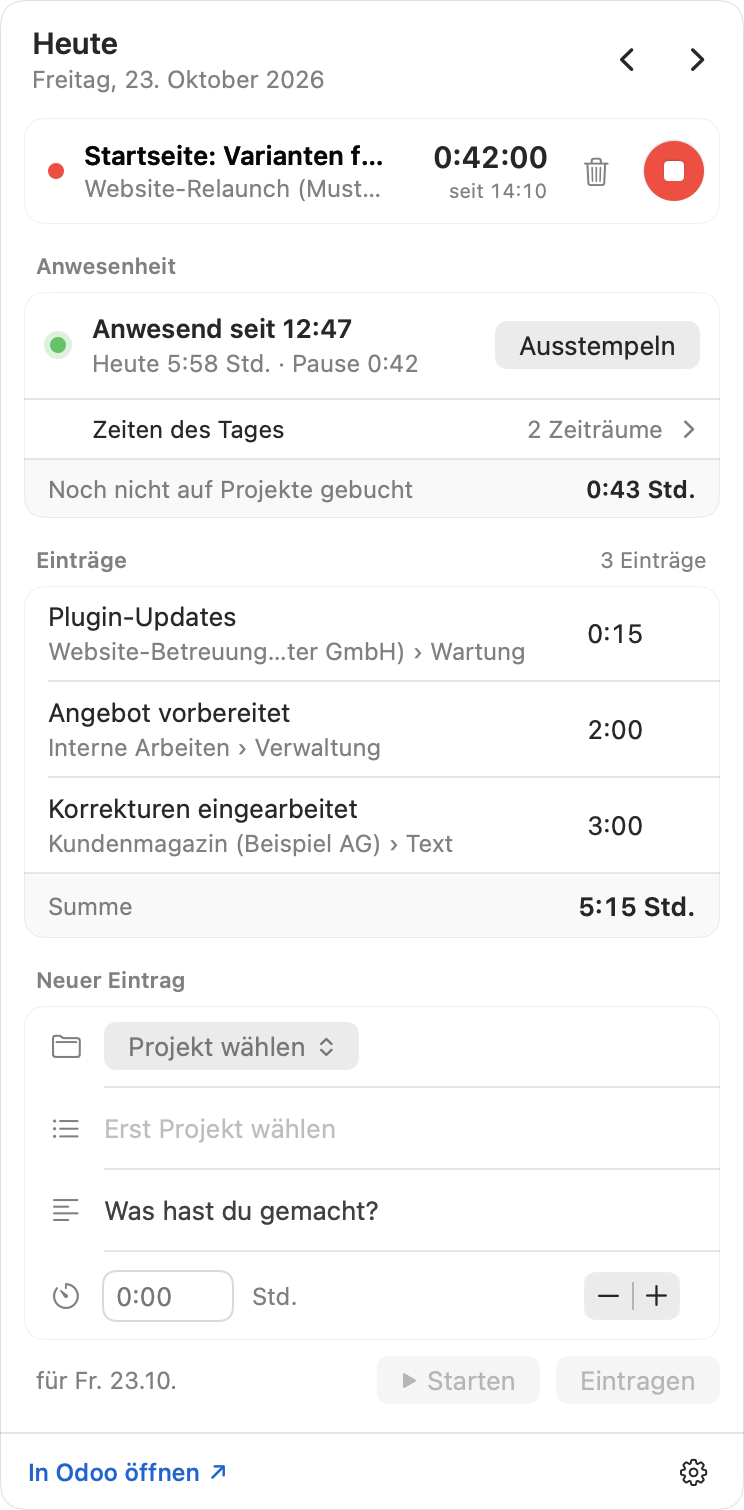
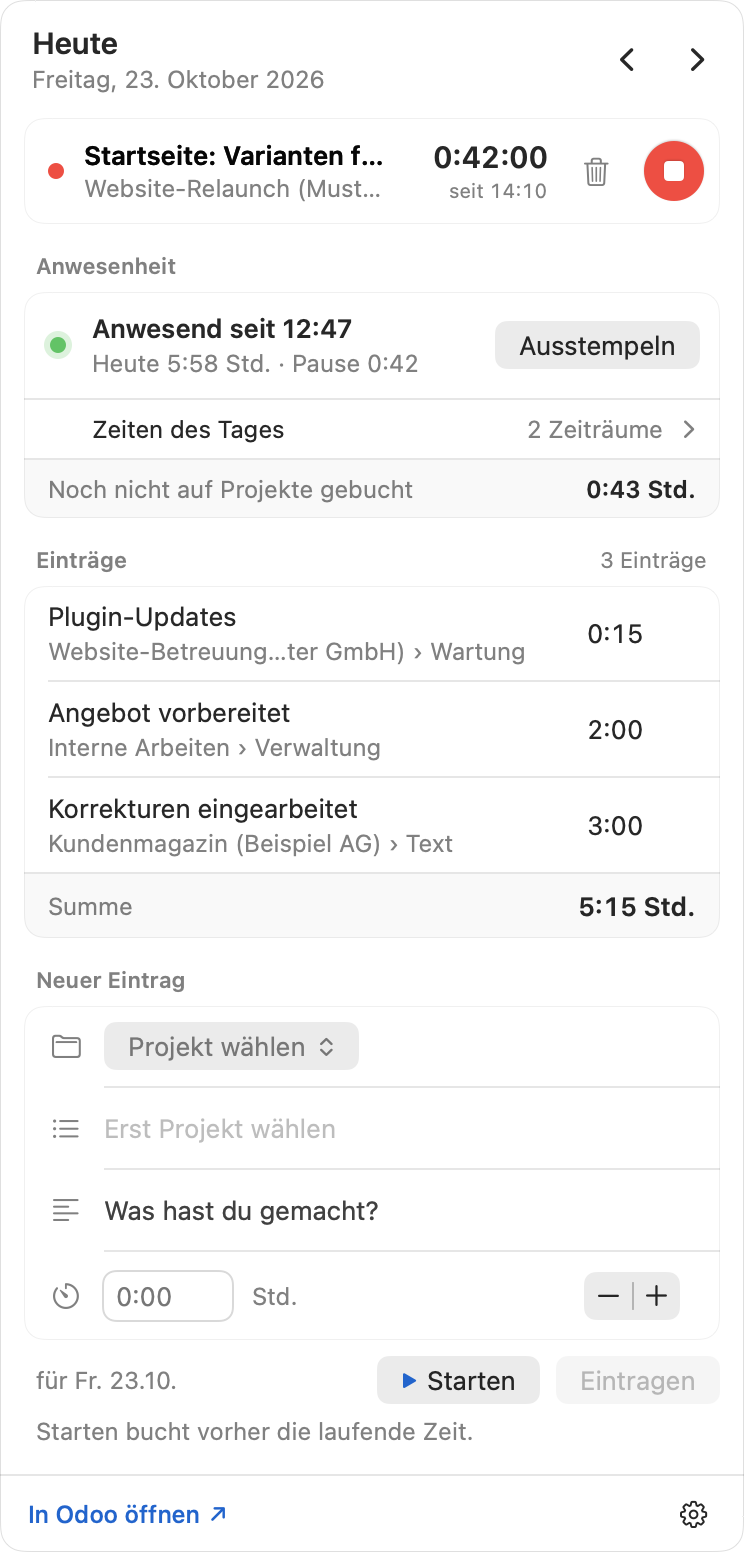
Fenster: „Starten“ nur noch im Formular
Der Knopf „Starten“ oben im Fenster entfällt: Seit „Starten ohne Projekt“ macht „Starten“ im Formular bei leerem Formular dasselbe; der obere war doppelt und stand nicht im Entwurf. Die Tests starten die Zeit ohne Projekt jetzt über das Formular. README, Changelog und App-Store-Texte angepasst; die Bildschirmfotos zeigen „Starten“ im Formular so, wie es seit 0.3.0 ist, und die Einstellungen ohne Anwesenheit mit „Zeit in der Menüleiste“.

diff --git a/ZeiterfassungTests/TimerTests.swift b/ZeiterfassungTests/TimerTests.swift
@@ -230,17 +230,16 @@ struct TimerTests {
         let clock = MovingClock()
         let model = try await signedIn(odoo, clock: clock)
         model.preferences.durationRounding = .quarterHour
-        try await fillDraft(model)
-        #expect(model.offersQuickStart)
+        // Im leeren Formular startet „Starten“ ohne Projekt.
+        #expect(model.draft.projectID == nil && model.canStartTimer)
 
-        await model.startTimerNow()
+        await model.startTimer()
         let timer = try #require(model.runningTimer)
         #expect(timer.projectID == nil && timer.taskID == nil && timer.description.isEmpty)
         #expect(model.timerPathText == "Projekt fehlt")
-        #expect(!model.offersQuickStart)
-        // Solange sie ohne Projekt läuft, startet keine neue; das Formular bleibt, wie es war.
+        // Solange sie ohne Projekt läuft, startet keine neue, auch nicht mit einem Eintrag im Formular.
+        try await fillDraft(model)
         #expect(!model.canStartTimer)
-        #expect(model.draft.description == "Titelseite")
 
         clock.advance(by: 42 * 60)
         await model.stopTimer()
@@ -269,8 +268,8 @@ struct TimerTests {
         let odoo = FakeOdoo()
         let clock = MovingClock()
         let model = try await signedIn(odoo, clock: clock)
+        await model.startTimer()
         try await fillDraft(model)
-        await model.startTimerNow()
 
         model.beginEditingTimer()
         #expect(model.timerEditing == .running)
@@ -303,8 +302,8 @@ struct TimerTests {
         }
         let clock = MovingClock()
         let model = try await signedIn(odoo, clock: clock)
+        await model.startTimer()
         try await fillDraft(model)
-        await model.startTimerNow()
         let entry = try #require(model.entries.first)
         #expect(!model.canStartTimer(like: entry))
         clock.advance(by: 20 * 60)

diff --git a/Zeiterfassung/Views/DayView.swift b/Zeiterfassung/Views/DayView.swift
@@ -74,18 +74,6 @@ struct DayHeader: View {
                     .controlSize(.small)
                     .accessibilityLabel("Wird geladen")
             }
-            if model.offersQuickStart {
-                Button { Task { await model.startTimerNow() } } label: {
-                    HStack(spacing: 4) {
-                        Image(systemName: "play.fill")
-                            .font(.system(size: 8))
-                            .foregroundStyle(.tint)
-                        Text("Starten")
-                    }
-                }
-                .controlSize(.small)
-                .help("Startet die Zeit jetzt. Projekt und Aufgabe wählst du, während sie läuft, oder beim Stoppen.")
-            }
             if !model.isShowingToday {
                 Button("Heute") { model.showToday() }
                     .controlSize(.small)

diff --git a/Zeiterfassung/Model/AppModel.swift b/Zeiterfassung/Model/AppModel.swift
@@ -1699,15 +1699,6 @@ final class AppModel {
         return String(localized: "seit \(Formatting.shortDate(startDay)) \(clockTime(timer.start))")
     }
 
-    /// „Starten“ oben im Fenster, solange keine Zeit läuft.
-    var offersQuickStart: Bool { timesheetsActive && runningTimer == nil && !isStoppingTimer }
-
-    /// Startet die Zeit sofort, ohne Projekt, Aufgabe und Beschreibung.
-    func startTimerNow() async {
-        guard offersQuickStart else { return }
-        await beginTimer(project: nil, taskID: nil, taskName: nil, description: "")
-    }
-
     /// „Starten“ steht im Formular, solange es einen neuen Eintrag für heute anlegt.
     var offersTimerStart: Bool { timesheetsActive && editingEntry == nil && timerEditing == nil && isShowingToday }
 

diff --git a/Zeiterfassung/Debug/ScreenshotRenderer.swift b/Zeiterfassung/Debug/ScreenshotRenderer.swift
@@ -186,7 +186,7 @@ enum ScreenshotRenderer {
         model.preferences.runningTimer = nil
         model.dismissTimerNotice()
 
-        // Oben gestartet, ohne Projekt: Angaben ändern, beim Stoppen zuordnen
+        // Ohne Projekt gestartet: Angaben ändern, beim Stoppen zuordnen
         await renderPanel(model, appearance: .aqua, to: directory.appending(path: "timer-starten.png"))
         model.preferences.runningTimer = Preferences.RunningTimer(account: account, projectID: nil, projectName: nil, taskID: nil,
                                                                   taskName: nil, description: "",

diff --git a/docs/app-store.md b/docs/app-store.md
@@ -26,8 +26,8 @@ the review, please use the built-in demo, which needs no server:
 2. Enter Server: demo and API key: demo, click Connect, then Done.
 3. Try booking time (project, task, description, duration), or leave the duration empty and
    click Start; the running time appears at the top of the window and in the menu bar, and the
-   red button stops and books it. Start at the top of the window runs without a project; it is
-   chosen while the time runs or in the form that opens when stopping. Check in and out, browse days with the arrows, and open
+   red button stops and books it. Start also runs without a project; it is chosen while the
+   time runs or in the form that opens when stopping. Check in and out, browse days with the arrows, and open
    Settings with the gear icon.
 
 The demo uses invented data held in memory; it sends nothing over the network.
@@ -54,7 +54,7 @@ ZEITEINTRÄGE
 
 PROJEKT-TIMER
 • Ohne Dauer starten, stoppen bucht sofort
-• Oben starten, Projekt später wählen
+• Ohne Projekt starten, beim Stoppen zuordnen
 • Mit ▶ eine Arbeit des Tages erneut starten
 • Immer nur eine laufende Zeit; ein neuer Start bucht die alte
 • Läuft weiter, auch wenn die App beendet ist
@@ -98,7 +98,7 @@ TIME ENTRIES
 
 TIMER
 • Start without a duration, stopping books right away
-• Start at the top, choose the project later
+• Start without a project, assign it when stopping
 • Start a task of the day again with ▶
 • One timer at a time; starting another books the running one
 • Keeps running even when the app is closed
@@ -142,7 +142,7 @@ SAISIES DE TEMPS
 
 MINUTEUR
 • Démarrer sans durée, l’arrêt enregistre aussitôt
-• Démarrer en haut, choisir le projet plus tard
+• Démarrer sans projet, l’attribuer à l’arrêt
 • Relancer une tâche du jour avec ▶
 • Un seul minuteur à la fois ; en démarrer un autre enregistre le précédent
 • Continue de tourner même quand l’app est fermée

diff --git a/README.md b/README.md
@@ -20,14 +20,13 @@ Projektzeit von heute oder die Anwesenheit.
   französischen Einheiten (`2 hours`, `1 heure 30`), und wird auf Wunsch auf 15, 30 oder 60
   Minuten gerundet. Die Einträge des Tages stehen mit Summe darüber; frühere Tage lassen
   sich durchblättern und nachtragen.
-- **Projekt-Timer:** „Starten“ oben im Fenster startet die Zeit sofort; Projekt, Aufgabe und
-  Beschreibung wählst du, während sie läuft (Klick auf die Projektzeile), oder beim Stoppen im
-  Formular, das dann mit der gemessenen Dauer bucht. Ohne Dauer startet „Starten“ im Formular die
-  Zeit für Projekt, Aufgabe und Beschreibung; ▶ an einem Eintrag startet dieselbe Arbeit erneut.
-  Es läuft immer nur eine Zeit, ein neuer Start bucht die laufende. Stoppen bucht sofort auf den
-  Tag, an dem die Zeit begann, gerundet wie eingestellt; lief sie keine Minute, kommt sie wie eine
-  Zeit ohne Projekt ins Formular, verloren geht nichts. Die Zeit läuft weiter, wenn die App
-  beendet wird.
+- **Projekt-Timer:** Ohne Dauer startet „Starten“ im Formular die Zeit für Projekt, Aufgabe und
+  Beschreibung, auch ganz ohne Angaben; was fehlt, wählst du, während sie läuft (Klick auf die
+  Projektzeile), oder beim Stoppen im Formular, das dann mit der gemessenen Dauer bucht. ▶ an einem
+  Eintrag startet dieselbe Arbeit erneut. Es läuft immer nur eine Zeit, ein neuer Start bucht die
+  laufende. Stoppen bucht sofort auf den Tag, an dem die Zeit begann, gerundet wie eingestellt; lief
+  sie keine Minute, kommt sie wie eine Zeit ohne Projekt ins Formular, verloren geht nichts. Die
+  Zeit läuft weiter, wenn die App beendet wird.
 - **Bearbeiten:** Ein Klick auf einen Eintrag öffnet ihn unten im Formular, auch um ihn auf einen
   anderen Tag zu legen; löschen geht nach einer Rückfrage. Abgerechnete Einträge sperrt Odoo bis
   auf die Beschreibung, die App zeigt das.

diff --git a/CHANGELOG.md b/CHANGELOG.md
@@ -13,6 +13,8 @@
   duration, at least 0:01, like a timer without a project; book it there or discard it with the
   trash. Until then no new timer starts. Starting another timer still discards a running one
   that is under a minute.
+- Timer: “Start” at the top of the window is gone; with an empty form, “Start” in the form does
+  the same and also runs without a project.
 
 ## 0.3.0 – 2026-10-27
 
